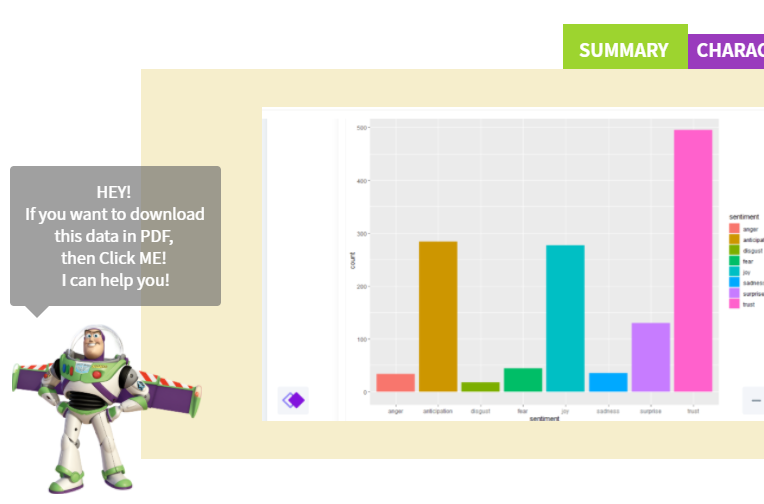
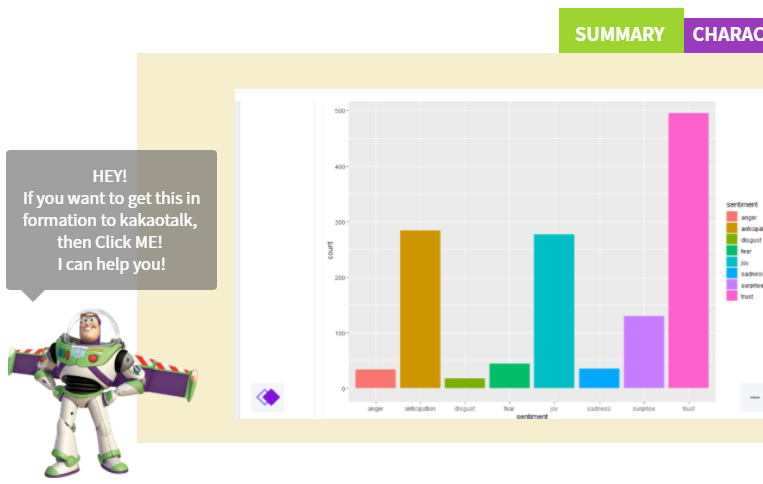
리팩 : TOYSCRIPT 페이지 최종 구현 및 css , 이미지 변경

diff --git a/frontend/src/components/ServiceInfo.js b/frontend/src/components/ServiceInfo.js
@@ -11,8 +11,16 @@ function ServiceInfo() {
       <center>
         <img className="toyscript" src="/images/toyscript!.png" />
       </center>
-      <div className="desc">
-        <p>'Toy Script'는 Toy + Script 의 합성어로, 영화 제작자님을 위해 Toy version의 Script를 제공합니다.</p>
+      <div id="service-info-box">
+        <div className="desc">
+          <p>" TOY SCRIPT " 는 toy project의 'TOY'와 'SCRIPT'의 합성어로,<br/>
+            txt 형식 대본을 분석해 영화 제작자가 대본을 읽지 않고도 대본 정보를 빠르게 파악할 수 있게 toy 버전의 Script를 제공합니다.<br/>
+             분석 방법으로는 빈도 분석, 감성 분석, 네트워크 분석을 이용했고, <br/>데이터 전처리를 위해 NLTK(Natural Language ToolKit, 자연어 처리 패키지)를 사용했습니다.<br/>
+            감성 분석을 위해서는 NRC Emotion Lexicons 감성 사전을 사용했습니다.<br/>
+            <br/>
+            팀 LAM OR NOT LAM은 서비스 사용자에게 본 서비스가 장난감처럼 작지만 의미 있는 서비스가 되길 바랍니다. 🙂
+          </p>
+        </div>
       </div>
 
       <div className="section-box">
@@ -38,7 +46,7 @@ function ServiceInfo() {
             </li>
             <li>
               <span className="num">04</span>
-              다운로드
+              공유하기
             </li>
           </ul>
           <ul className="cont">
@@ -63,13 +71,13 @@ function ServiceInfo() {
                   <p className="dsc">각 TAB에서 분석된 정보를 확인하세요.
                   <br/>
                   <br/>
-                  º Summary : 대본의 전반적인 정보를 제공합니다.
+                  ✅ Summary : 대본의 전반적인 정보를 제공합니다.
                   <br/>
-                  º Character : 비중 높은 캐릭터의 관련 정보를 제공합니다.
+                  ✅ Character : 비중 높은 캐릭터의 관련 정보를 제공합니다.
                   <br/>
-                  º Place : 대본 내 전체 장소에 대한 정보를 제공합니다. 
+                  ✅ Place : 대본 내 전체 장소에 대한 정보를 제공합니다. 
                   <br/>
-                  º Time : 시간대 종류와 시간 별 빈도높은 장소 정보를 제공합니다.
+                  ✅ Time : 시간대 종류와 시간별 빈도높은 장소 정보를 제공합니다.
                   </p>
                 </dd>
               </dl>
@@ -78,18 +86,16 @@ function ServiceInfo() {
               <dl className="step3">
                 <dt>
                   <span className="num">03</span>
-                  다운로드
+                  공유하기
                 </dt>
                 <dd>
-                  <p className="dsc">버즈가 필요한 정보 다운로드를 도와줍니다.</p>
+                  <p className="dsc">버즈가 분석된 정보를 카카오톡으로 보내줍니다.</p>
                 </dd>
               </dl>
             </li>
           </ul>
         </div>
       </div>
-
-
 
     </>
   )

diff --git a/frontend/src/serviceInfo.css b/frontend/src/serviceInfo.css
@@ -2,11 +2,20 @@
   width: 765px;
   height: 80px;
   margin-top: 120px;
-  margin-bottom: 150px;
+  margin-bottom: 100px;
 }
 
+
 .desc {
-  padding: 50px 100px 100px;
+  width: 960px;
+  margin: 50px auto;
+  padding-top: 15px;
+  padding-right: 15px;
+  padding-left: 15px;
+  padding-bottom: 5px;
+  align-self: center;
+  font-size: 17px;
+  border: 1px solid #e2e2e2;
 }
 
 .section-box.first {
@@ -17,7 +26,7 @@
   width: 960px;
   margin: 0 auto;
   padding-top: 50px;
-  padding-bottom: 147px;
+  padding-bottom: 100px;
 }
 
 .section-tit {

diff --git a/frontend/src/index.css b/frontend/src/index.css
@@ -5,7 +5,9 @@
   font-style: normal;
 }
 
-.container {
+.container, 
+#service-info-box,
+.section-box  {
   font-family: 'NEXON Lv1 Gothic';
   line-height: 1.7;
   word-break: keep-all;
